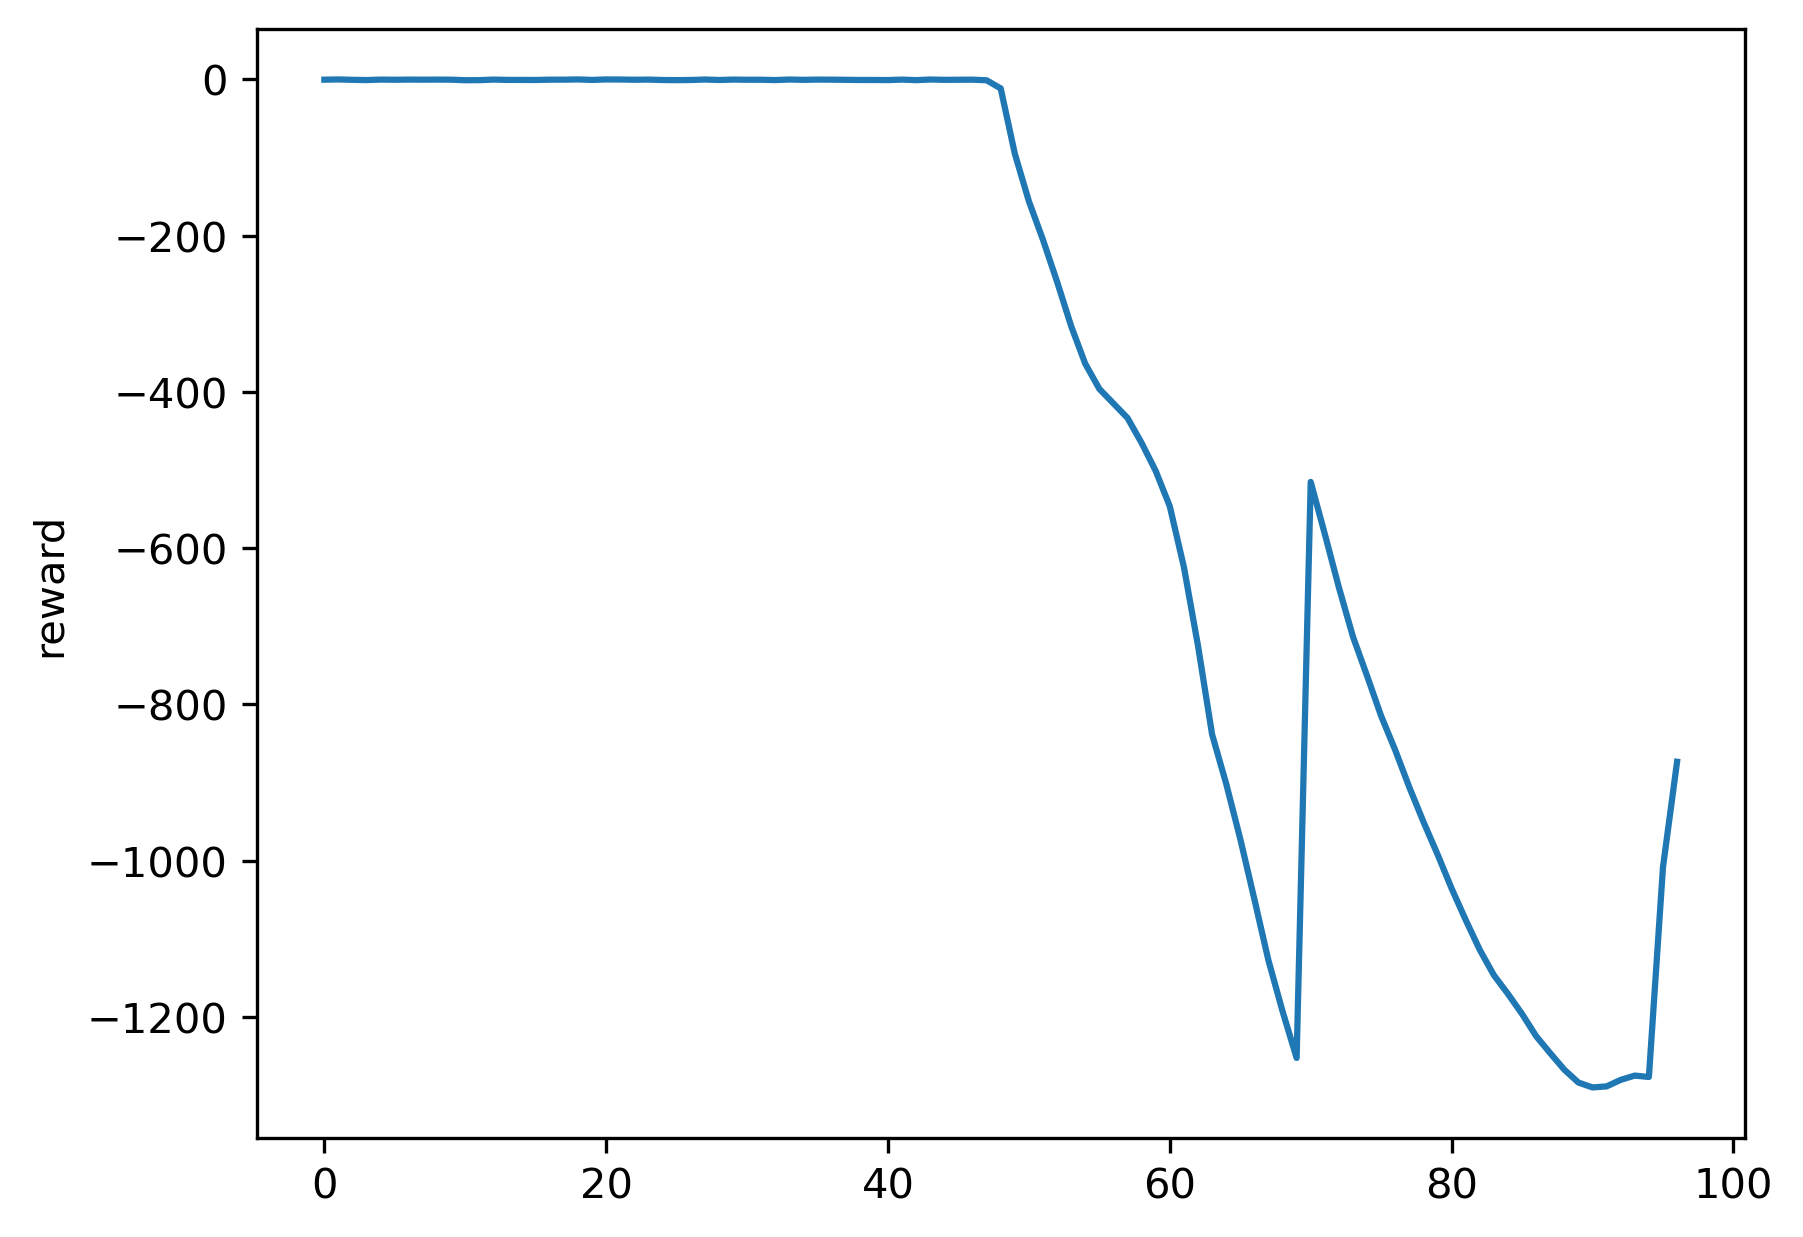
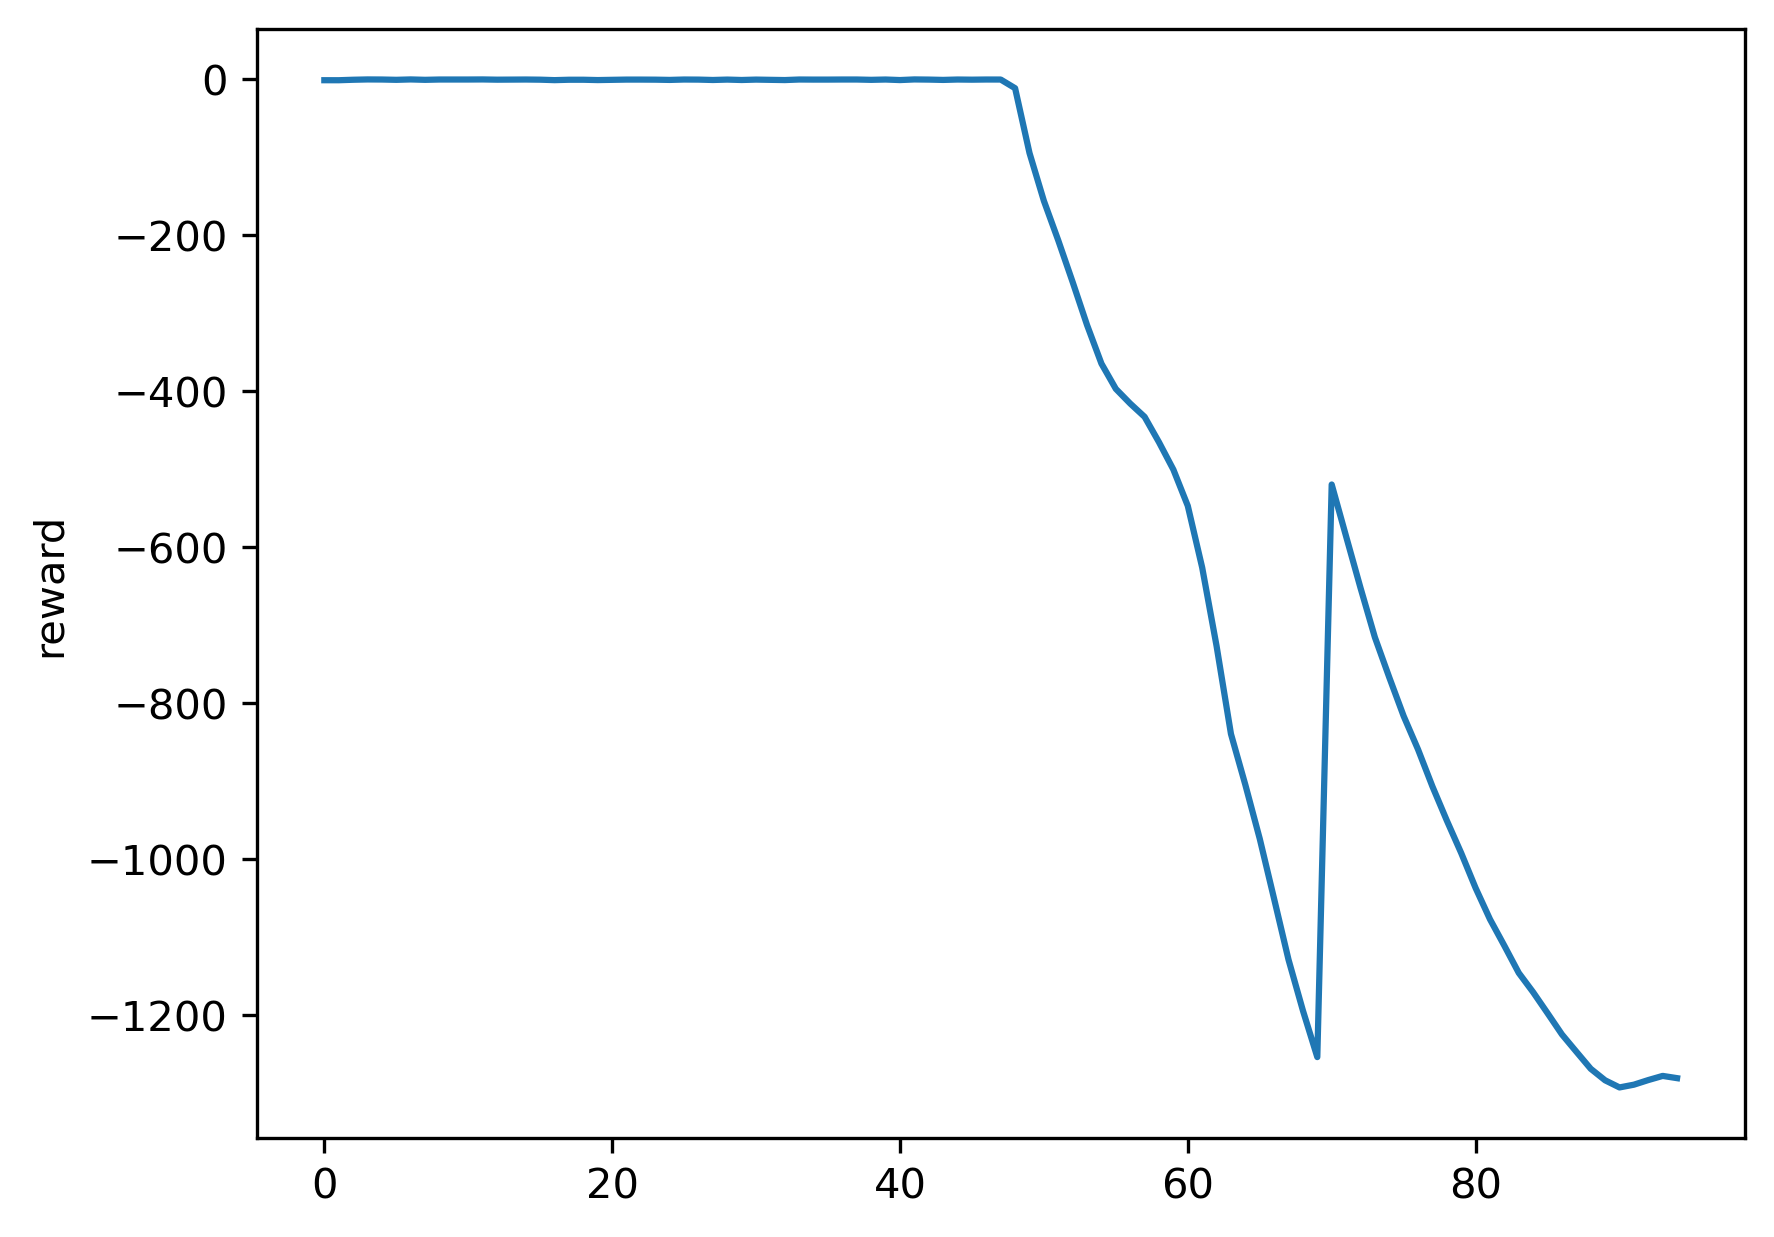
fixed terminate bug

diff --git a/testcases/gym-environments/single-zone-rom/test_ann/test_ddqn_tianshou.py b/testcases/gym-environments/single-zone-rom/test_ann/test_ddqn_tianshou.py
@@ -286,31 +286,31 @@ if __name__ == '__main__':
     #Namespace(batch_size=128, buffer_size=50000, device='cpu', epoch=2, eps_test=0.005, eps_train=1.0, eps_train_final=0.05, frames_stack=1, gamma=0.99, logdir='log_ddqn', lr=0.0003, n_hidden_layers=3, n_step=1, resume_path=None, seed=0, step_per_collect=1, step_per_epoch=672, target_update_freq=96, task='SingleZoneEnv-ANN-v1', test_num=1, test_only=False, time_step=900.0, training_num=1, update_per_step=1, weight_action=0.1, weight_energy=100.0, weight_temp=1.0)
     # args.set_defaults(epoch=200)
 
-    # # run one experiment
-    # test_dqn(args)
+    # run one experiment
+    test_dqn(args)
 
-    # Define Ray tuning experiments
-    tune.register_trainable("ddqn", trainable_function)
-    ray.init()
+    # # Define Ray tuning experiments
+    # tune.register_trainable("ddqn", trainable_function)
+    # ray.init()
 
-    # Run tuning
-    tune.run_experiments({
-        'ddqn_tuning': {
-            "run": "ddqn",
-            "stop": {"timesteps_total": args.step_per_epoch},
-            "config": {
-                "epoch": tune.grid_search([50]),
-                "weight_action": tune.grid_search([10]),
-                "lr": tune.grid_search([1e-3]),
-                "batch_size": tune.grid_search([256]),
-                "n_hidden_layers": tune.grid_search([3]),
-                "buffer_size": tune.grid_search([4096*3]),
-                # "seed":tune.grid_search([0, 1, 2, 3, 4, 5])
-                "seed":tune.grid_search([0])
+    # # Run tuning
+    # tune.run_experiments({
+    #     'ddqn_tuning': {
+    #         "run": "ddqn",
+    #         "stop": {"timesteps_total": args.step_per_epoch},
+    #         "config": {
+    #             "epoch": tune.grid_search([50]),
+    #             "weight_action": tune.grid_search([10]),
+    #             "lr": tune.grid_search([1e-3]),
+    #             "batch_size": tune.grid_search([256]),
+    #             "n_hidden_layers": tune.grid_search([3]),
+    #             "buffer_size": tune.grid_search([4096*3]),
+    #             # "seed":tune.grid_search([0, 1, 2, 3, 4, 5])
+    #             "seed":tune.grid_search([0])
 
-            },
-            "local_dir": "/mnt/shared",
-        }
-    })
+    #         },
+    #         "local_dir": "/mnt/shared",
+    #     }
+    # })
     toc = time.process_time()
     print ('======Finish in:' + str(toc-tic)+" second(s)==========")

diff --git a/testcases/gym-environments/single-zone-rom/test_ann/test_installation.py b/testcases/gym-environments/single-zone-rom/test_ann/test_installation.py
@@ -17,12 +17,13 @@ matplotlib.use('agg')
 # import tianshou as ts
 # print(ts.__version__)
 simulation_start_time=201*3600*24
+simulation_end_time = simulation_start_time+3600*24*1
 env = gym.make("SingleZoneEnv-ANN-v1",
                 mass_flow_nor=0.55,
                 weather_file='USA_IL_Chicago-OHare.Intl.AP.725300_TMY3.epw',
                 n_next_steps=4,
                 simulation_start_time=simulation_start_time,
-                simulation_end_time=simulation_start_time+3600*24*1,  # for the next week?
+                simulation_end_time=simulation_end_time, 
                 time_step=15*60,
                 log_level=7,
                 alpha=200,
@@ -52,17 +53,13 @@ print('**************')
 print(type(step))
 print('State is {}  \nReward is {}\nTerminated is {}'.format(step[0],step[1],step[2]))
 
-
-simulation_start_time=3600*24
-simulation_end_time=3600*24*2
-i = simulation_start_time
 rewards = []
-while i<=simulation_end_time:
-    step = env.step(random.randint(0,10))
+while env.t<simulation_end_time:
     print('******while loop********')
+    step = env.step(random.randint(0,10))
     print('State is {}  \nReward is {}\nTerminated is {}'.format(step[0],step[1],step[2]))
+    print('I is ', env.t)
     rewards.append(step[1])
-    i += 900
 plt.plot(rewards)
 plt.ylabel('reward')
 plt.savefig('rewards.png', bbox_inches = 'tight', dpi = 300)

diff --git a/testcases/gym-environments/single-zone-rom/gym_singlezone_rom/envs/single_zone_ann.py b/testcases/gym-environments/single-zone-rom/gym_singlezone_rom/envs/single_zone_ann.py
@@ -228,11 +228,7 @@ class ANNSingleZoneEnv(gym.Env):
 
         # update clock
         self.t += self.tau
-        
-        # terminal conditions: simulation over time, state over bounds
-        self._is_done()
-
-
+        print("debug", self.t)
         # predict future Tz and P with ROM
         Tz, P = self._rom_model(frequency)
         # update state
@@ -242,8 +238,9 @@ class ANNSingleZoneEnv(gym.Env):
         # reward policy
         rewards = self._reward_policy()
 
-        terminated = self._is_done()
-        return np.array(self.state,dtype=np.float32), rewards, terminated, {}
+        self._is_done()
+        print("debug",self.done)
+        return np.array(self.state,dtype=np.float32), rewards, self.done, {}
 
     def render(self, mode='human', close=False):
         """
